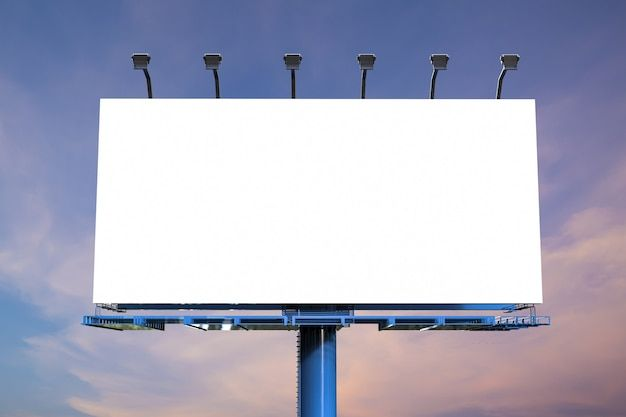
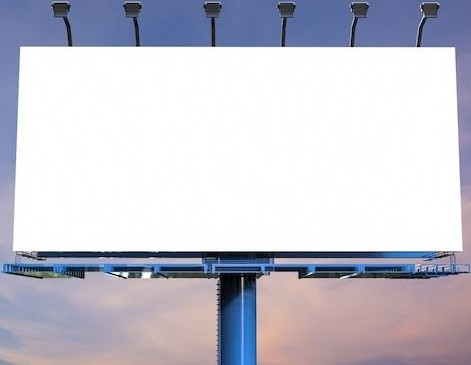
Подправка дизайна

diff --git a/style.css b/style.css
@@ -89,12 +89,8 @@ ul li:hover {
     transform: scale(1.05);
 }
     
-article span {
-    transition: transform 0.3s ease;
-}
-
 article span:hover {
-     transform: scale(1.05);
+     font-size: 20px;
 }
 
 .Advertising {
@@ -105,19 +101,18 @@ article span:hover {
     background-color: #d0d1d3;
     background: url(images/билборд.jpg) bottom no-repeat;
     width: 600px;
-    margin-top: 30px;
+    margin-top: 60px;
 }
 
 .Contacts {
-    transition: transform 0.3s ease;
     text-decoration: none;
     color: orange;
 }
 
 .Contacts:hover {
-     transform: scale(1.1);
+     font-size: 20px;
 }
 
 main img {
-    margin-top: 30px;
+    margin-top: 60px;
 }

diff --git a/Contacts.html b/Contacts.html
@@ -14,7 +14,7 @@
         </header>
 
         <main>
-            <img src="images/Контакты.jpg" alt="Картинка 'Контакты'" width="50%" height="500px">
+            <img src="images/Контакты.jpg" alt="Картинка 'Контакты'" width="50%" height="500px" align="center">
             <ul>
                 <li>Телеграмм тег - @Ars091208</li>
                 <li>Номер телефона - +7 949 470 16 44</li>

diff --git a/Vacancies.html b/Vacancies.html
@@ -14,7 +14,7 @@
         </header>
 
         <main>
-            <img src="images/Вакансии.jpg" alt="Картинка 'Нет вакансий'" width="50%" height="500px">
+            <img src="images/Вакансии.jpg" alt="Картинка 'Нет вакансий'" width="50%" height="500px" align="center">
             <h2 style="color: red">В данный момент вакансий нет</h2>
         </main>
 
